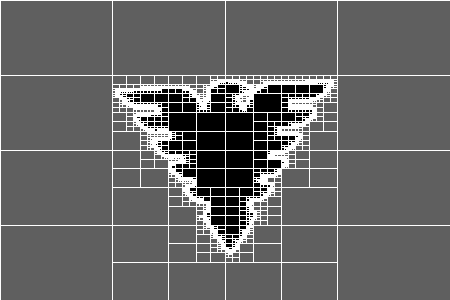
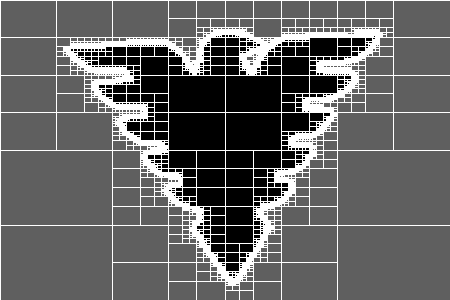
跑通

Changed region(s): [[0.0, 0.06, 1.0, 0.99]]

diff --git a/Project4/code/SplitMerge.py b/Project4/code/SplitMerge.py
@@ -1,12 +1,9 @@
 import cv2
 import numpy as np
 import matplotlib.pyplot as plt
-import sys
 
-i = 0
-j = 1
-Node_List = []
-
+Visited_List = []
+Leaf_List = [] # 叶子节点
 
 class ImgNode():
     def __init__(self, img, father_node, h0, h1, w0, w1):
@@ -16,10 +13,10 @@ class ImgNode():
         self.sub_node2 = None
         self.sub_node3 = None
         self.sub_node4 = None
-        self.left_node = None
-        self.right_node = None
-        self.up_node = None
-        self.down_node = None
+        self.left_node = []
+        self.right_node = []
+        self.up_node = []
+        self.down_node = []
         self.h0 = h0
         self.h1 = h1
         self.w0 = w0
@@ -69,40 +66,69 @@ class ImgNode():
         sub_node4 = ImgNode(self.img, self, int(
             (self.h0+self.h1)/2), self.h1, int((self.w0+self.w1)/2), self.w1)
 
-        sub_node1.left_node = self.left_node
-        sub_node1.right_node = sub_node2
-        sub_node1.up_node = self.up_node
-        sub_node1.down_node = sub_node3
+        if self.left_node is not None:
+            sub_node1.left_node.extend(self.left_node)
+        sub_node1.right_node.append(sub_node2)
+        if self.up_node is not None:
+            sub_node1.up_node.extend(self.up_node)
+        sub_node1.down_node.append(sub_node3)
 
-        sub_node2.left_node = sub_node1
-        sub_node2.right_node = self.right_node
-        sub_node2.up_node = self.up_node
-        sub_node2.down_node = sub_node4
-
-        sub_node3.left_node = self.left_node
-        sub_node3.right_node = sub_node4
-        sub_node3.up_node = sub_node1
-        sub_node3.down_node = self.down_node
-
-        sub_node4.left_node = sub_node3
-        sub_node4.right_node = self.right_node
-        sub_node4.up_node = sub_node2
-        sub_node4.down_node = self.down_node
+        sub_node2.left_node.append(sub_node1)
+        if self.right_node is not None:
+            sub_node2.right_node.extend(self.right_node)
+        if self.up_node is not None:
+            sub_node2.up_node.extend(self.up_node)
+        sub_node2.down_node.append(sub_node4)
 
         if self.left_node is not None:
-            self.left_node.right_node = sub_node1
-        if self.up_node is not None:
-            self.up_node.down_node = sub_node2
+            sub_node3.left_node.extend(self.left_node)
+        sub_node3.right_node.append(sub_node4)
+        sub_node3.up_node.append(sub_node1)
         if self.down_node is not None:
-            self.down_node.up_node = sub_node3
+            sub_node3.down_node.extend(self.down_node)
+
+        sub_node4.left_node.append(sub_node3)
         if self.right_node is not None:
-            self.right_node.left_node = sub_node4
+            sub_node4.right_node.extend(self.right_node)
+        sub_node4.up_node.append(sub_node2)
+        if self.down_node is not None:
+            sub_node4.down_node.extend(self.down_node)
+
+        # print(self.left_node)
+        for ln in self.left_node:
+            if isinstance (ln,list):
+                continue
+            if self in ln.right_node:
+                ln.right_node.remove(self)
+                ln.right_node.append(sub_node1)
+                ln.right_node.append(sub_node3)
+        for un in self.up_node:
+            if isinstance (un,list):
+                continue
+            if self in un.down_node:
+                un.down_node.remove(self)
+                un.down_node.append(sub_node1)
+                un.down_node.append(sub_node2)
+        for dn in self.down_node:
+            if isinstance (dn,list):
+                continue
+            if self in dn.up_node:
+                dn.up_node.remove(self)
+                dn.up_node.append(sub_node3)
+                dn.up_node.append(sub_node4)
+        for rn in self.right_node:
+            if isinstance (rn,list):
+                continue
+            if self in rn.left_node:
+                rn.left_node.remove(self)
+                rn.left_node.append(sub_node2)
+                rn.left_node.append(sub_node4)
 
         self.sub_node1 = sub_node1
         self.sub_node2 = sub_node2
         self.sub_node3 = sub_node3
         self.sub_node4 = sub_node4
-        return sub_node1, sub_node2, sub_node3, sub_node4
+        # return sub_node1, sub_node2, sub_node3, sub_node4
 
     def draw_node(self, img):
         point_color = (255, 255, 255)
@@ -114,14 +140,20 @@ class ImgNode():
 
 
 def split(node, draw_img):
-    if node.h1-node.h0 >= 1 and node.w1-node.w0 >= 1:
-        draw_img = node.draw_node(draw_img)
+    if node not in Leaf_List:
+        Leaf_List.append(node)
+    
     if node.split_judge() and node.h1-node.h0 >= 2 and node.w1-node.w0 >= 2:
+        Leaf_List.remove(node)
         node.split_node()
         draw_img = split(node.sub_node1, draw_img)
         draw_img = split(node.sub_node2, draw_img)
         draw_img = split(node.sub_node3, draw_img)
         draw_img = split(node.sub_node4, draw_img)
+
+    if node.h1-node.h0 >= 1 and node.w1-node.w0 >= 1:
+        draw_img = node.draw_node(draw_img)
+
     return draw_img
 
 
@@ -131,13 +163,11 @@ def is_leaf(node):
     else:
         return False
 
-
 def is_leaf_father(node):
     if is_leaf(node) is False and is_leaf(node.sub_node1) and is_leaf(node.sub_node2) and is_leaf(node.sub_node3) and is_leaf(node.sub_node4):
         return True
     else:
         return False
-
 
 def find_leaf_father(node):
     if is_leaf_father(node):
@@ -160,56 +190,48 @@ def find_leaf_father(node):
 
 
 def merge(node, contour_img):
-    global i
-    print('i=', i)
-    i += 1
-
-    global Node_List
-    # print(Node_List)
-    if node in Node_List:
-        print('return')
+    global Visited_List
+    if node in Visited_List:
         return contour_img
-
     else:
-        Node_List.append(node)
+        Visited_List.append(node)
 
-    cv2.imshow('test', contour_img)
-    cv2.imwrite('test.png', contour_img)
+    # cv2.imshow('test', contour_img)
+    # cv2.imwrite('test.png', contour_img)
 
-    threshold = 0.0
+    threshold = 5
     contour_img = node.draw_contour_img(contour_img)
     self_mean = node.cal_mean()
-    if node.right_node is not None:
-        if abs(self_mean - node.right_node.cal_mean()) <= threshold:
-            print('right', self_mean - node.right_node.cal_mean())
-            # if self.right_node.left_node is self:
-            #     self.right_node.left_node = None
-            contour_img = merge(node.right_node,contour_img)
-    if node.down_node is not None:
-        if abs(self_mean - node.down_node.cal_mean()) <= threshold:
-            print('down', self_mean - node.down_node.cal_mean())
-            # if self.down_node.up_node is self:
-            #     self.down_node.up_node = None
-            contour_img = merge(node.down_node,contour_img)
-    if node.up_node is not None:
-        if abs(self_mean - node.up_node.cal_mean()) <= threshold:
-            print('up', self_mean - node.up_node.cal_mean())
-            # if self.up_node.down_node is self:
-            #     self.up_node.down_node = None
-            contour_img = merge(node.up_node,contour_img)
-    if node.left_node is not None:
-        if abs(self_mean - node.left_node.cal_mean()) <= threshold:
-            print('left', self_mean - node.left_node.cal_mean())
-
-            # if self.left_node.right_node is self:
-            #     self.left_node.right_node = None
-            contour_img = merge(node.left_node,contour_img)
+    for rn in node.right_node:
+        if isinstance (rn,list):
+            continue
+        if abs(self_mean - rn.cal_mean()) <= threshold:
+            # print('right', self_mean - rn.cal_mean())
+            contour_img = merge(rn,contour_img)
+    for dn in node.down_node:
+        if isinstance (dn,list):
+            continue
+        if abs(self_mean - dn.cal_mean()) <= threshold:
+            # print('down', self_mean - dn.cal_mean())
+            contour_img = merge(dn,contour_img)
+    for un in node.up_node:
+        if isinstance (un,list):
+            continue
+        if abs(self_mean - un.cal_mean()) <= threshold:
+            # print('up', self_mean - un.cal_mean())
+            contour_img = merge(un,contour_img)
+    for ln in node.left_node:
+        if isinstance (ln,list):
+            continue
+        if abs(self_mean - ln.cal_mean()) <= threshold:
+            # print('left', self_mean - ln.cal_mean())
+            contour_img = merge(ln,contour_img)
 
     return contour_img
 
 
 if __name__ == '__main__':
-    sys.setrecursionlimit(10000)  # 设置递归层数
+    # sys.setrecursionlimit(10000)  # 设置递归层数
 
     img = cv2.imread('zju_logo.png', 0)
     origin_img = img.copy()
@@ -224,11 +246,10 @@ if __name__ == '__main__':
     cv2.imshow('draw_img', draw_img)
     cv2.imwrite('draw_img.png', draw_img)
 
+
     leaf_father = find_leaf_father(start_node)
     contour_img = np.zeros((int(img.shape[0]), int(img.shape[1])))
-    contour_img = merge(leaf_father.sub_node4, contour_img)
-
-    # contour_img = leaf_father.sub_node1.draw_contour_img(contour_img)
+    contour_img = merge(leaf_father,contour_img)
 
     cv2.imshow('contour_img', contour_img)
     cv2.imwrite('contour_img.png', contour_img)

diff --git a/Project4/code/test.py b/Project4/code/test.py
@@ -1,0 +1,4 @@
+a = []
+for aa in a:
+    print('aa')
+    print(aa)

diff --git a/Project4/report/图像分割实践报告.md b/Project4/report/图像分割实践报告.md
@@ -4,4 +4,8 @@
 
 区域分裂与合并
 
+otsu法
+
+方法对比
+
 边缘的链码表示
